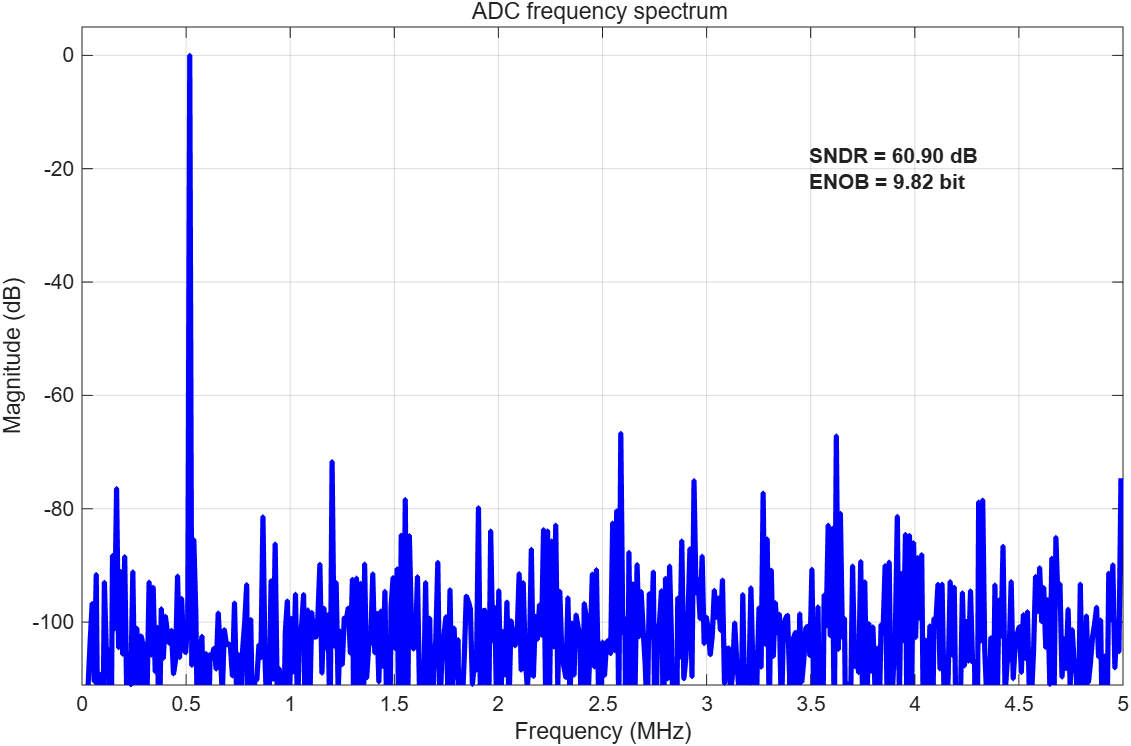
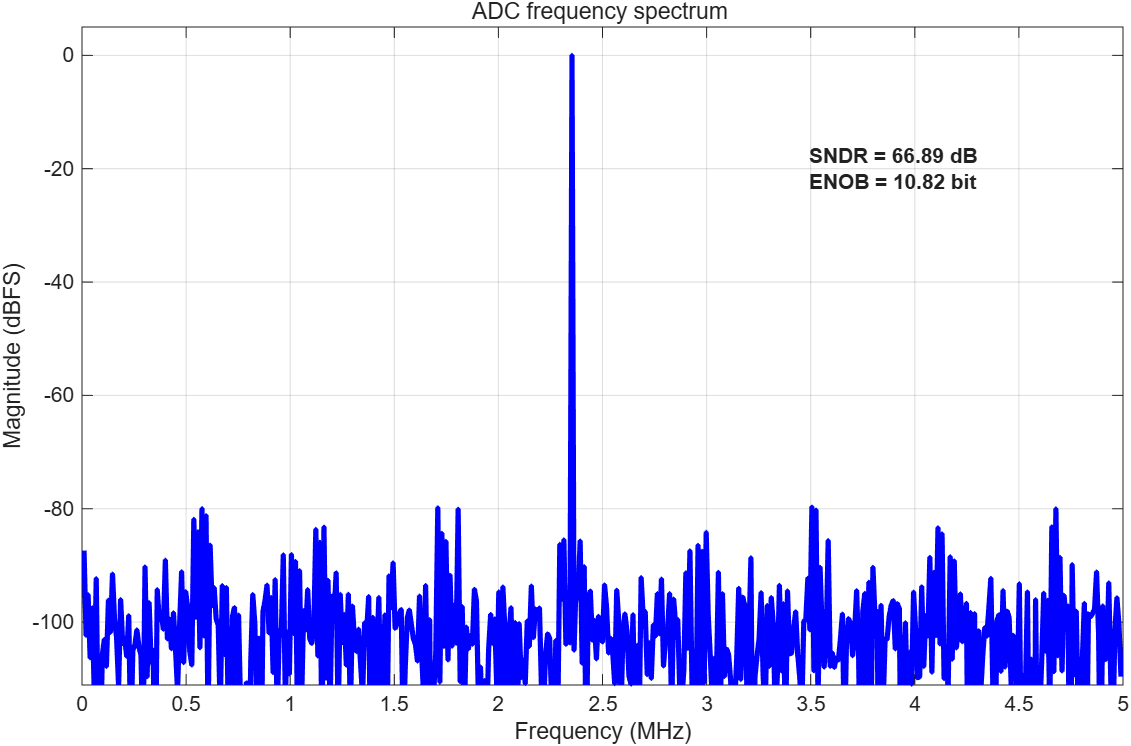
correct the mistake

Changed region(s): [[0.0619, 0.0617, 1.0, 0.9249], [0.0, 0.3391, 0.0309, 0.6166], [0.7737, 0.185, 0.8665, 0.2775]]

diff --git a/function/plotAdcDynamicSimulationResult.m b/function/plotAdcDynamicSimulationResult.m
@@ -5,7 +5,7 @@ function obj = plotAdcDynamicSimulationResult( p, adcDynamicPerformanceMetrics )
   obj = figure;
   plot( adcDynamicPerformanceMetrics.frequency / 1e6, adcDynamicPerformanceMetrics.spectrumDb, 'b', 'LineWidth', 2.5 );
   xlabel( 'Frequency (MHz)' );
-  ylabel( 'Magnitude (dB)' );
+  ylabel( 'Magnitude (dBFS)' );
   text( max( adcDynamicPerformanceMetrics.frequency / 1e6 ) * 0.7, -20, sprintf( 'SNDR = %.2f dB\nENOB = %.2f bit', adcDynamicPerformanceMetrics.sndr, adcDynamicPerformanceMetrics.enob ), 'FontWeight', 'bold' );
   title( 'ADC frequency spectrum ' );
   grid on;

diff --git a/function/processAdcData.m b/function/processAdcData.m
@@ -27,11 +27,11 @@ function adcDynamicPerformanceMetrics = processAdcData( p, samples, conversionRe
   %% normalize spectrum for display
 
   fullScale = 2 .^ ( p.adcResolution - 1 );
-  spectrumNormalized =spectrumSingle / ( p.fftLen / 2 ) / fullScale;
+  spectrumNormalized = spectrumSingle / ( p.fftLen / 2 ) / fullScale;
 
   %% convert spectrum to dB
 
-  spectrumDb =dbv( spectrumNormalized );
+  spectrumDb = dbv( spectrumNormalized );
 
   %% store results
 

diff --git a/function/genSamples.m b/function/genSamples.m
@@ -9,6 +9,6 @@ function samples = genSamples( p )
   time = ( 0 : p.fftLen - 1 ) / p.fs;
   samples.data = p.VDD / 2 + p.VDD / 2 * sin( 2 * pi * inputFrequency * time ) ;
   samples.toneBin = toneBin;
-  samples.inputFreqency = inputFrequency;
+  samples.inputFrequency = inputFrequency;
 
 end
